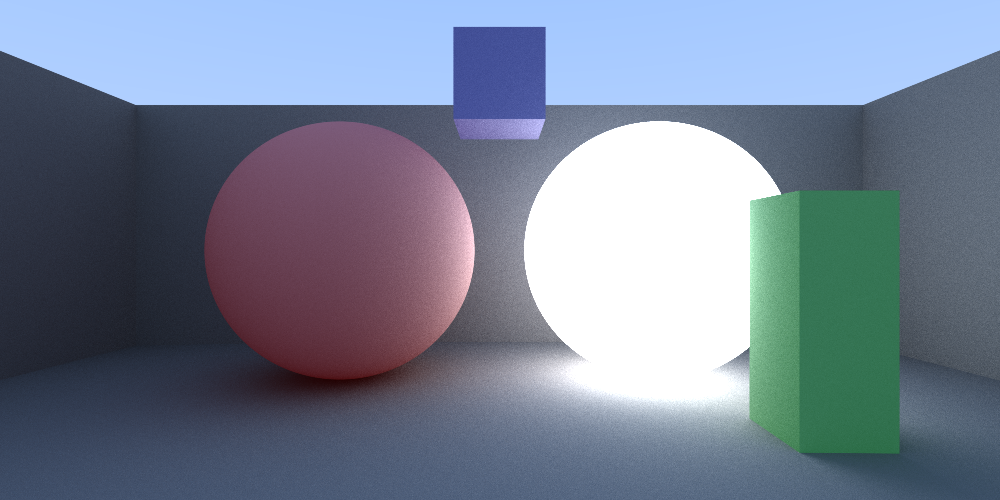
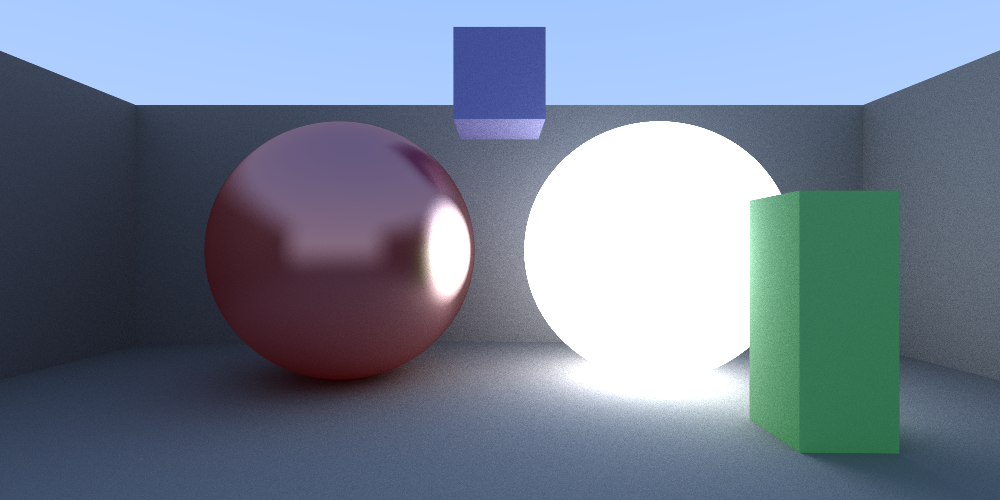
Update example image.

Changed region(s): [[0.186, 0.27, 0.496, 0.75]]

diff --git a/README.md b/README.md
@@ -7,22 +7,26 @@ To compile and run the raytracer locally, you can execute the bash file:
 ```bash
 run.sh
 ```
-The scene is described in the [main.cpp](./main.cpp) file:
+The example scene is described in the [main.cpp](./main.cpp) file:
 ```cpp
 ...
 
 Scene scene = Scene(1e3);
-scene.add_sphere(point3{-0.6, 0, -2}, 0.5, color{1, 0, 0}, 0.2);
-scene.add_sphere(point3{0, -100.5, -2}, 100, color{0, 1, 0}, 0.0);
-scene.add_sphere(point3{0.6, 0, -2}, 0.5, color{1, 1, 1}, 2.5);
 
-scene.add_rectangle(point3{-2.0, -0.7, -2.75}, 4, 1.5, color{0, 0, 0}, 1.1, z_side);
-scene.add_rectangle(point3{-2.0, -0.7, -2.75}, -4, 1.5, color{0, 0, 0}, 1.1, x_side);
-scene.add_rectangle(point3{2.0, -0.7, -2.75}, -4, 1.5, color{0, 0, 0}, 1.1, x_side);
+Props matte = Props(0.0, {0.0, 0.0, 0.0}, 0.2);
+Props light = matte.glowed(2.5);
+Props mirror = Props(0.8, {0.0, 0.0, 0.0}, 0.15, 0.5);
 
-scene.add_cuboid(point3{0.75, -0.6, -1.5}, 0.25, 0.75, 0.25, color{0, 1, 0}, 0.2);
-scene.add_cuboid(point3{-0.175, 0.5, -2.25}, 0.35, 0.35, 0.35, color{0, 0, 1.0}, 0.2);
+scene.add_sphere(point3{-0.6, 0, -2}, 0.5, mirror.colored({1, 0, 0}));
+scene.add_sphere(point3{0, -100.5, -2}, 100, matte);
+scene.add_sphere(point3{0.6, 0, -2}, 0.5, light.colored({1, 1, 1}));
+
+scene.add_rectangle(point3{-2.0, -0.7, -2.75}, 4, 1.5, z_side, matte);
+scene.add_rectangle(point3{-2.0, -0.7, -2.75}, -4, 1.5, x_side, matte);
+scene.add_rectangle(point3{2.0, -0.7, -2.75}, -4, 1.5, x_side, matte);
+
+scene.add_cuboid(point3{0.75, -0.6, -1.5}, 0.25, 0.75, 0.25, matte.colored({0, 1, 0}));
+scene.add_cuboid(point3{-0.175, 0.5, -2.25}, 0.35, 0.35, 0.35, matte.colored({0, 0, 1.0}));
 
 ...
 ```
-The description above creates the example image.
